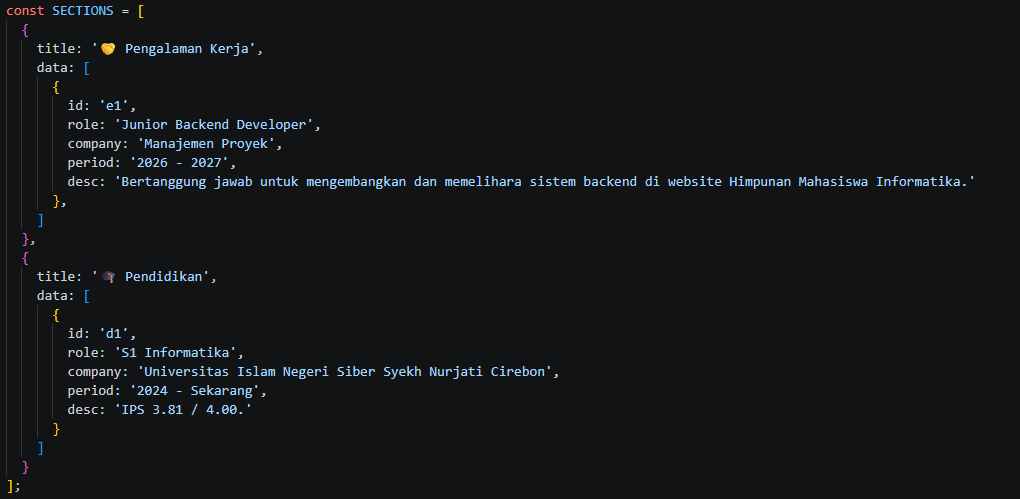
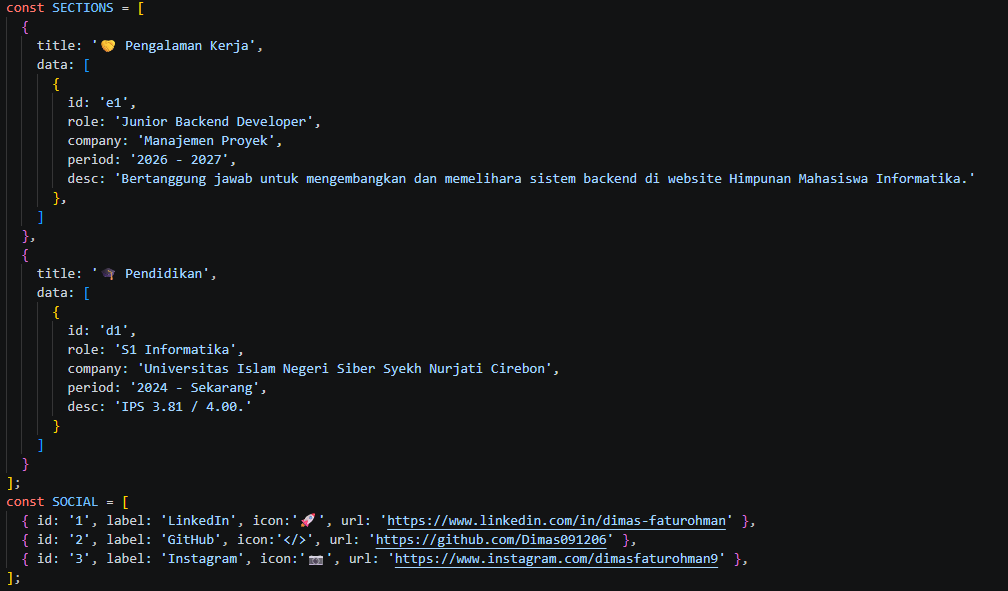
selesai ni

diff --git a/pemrogramanmobile/pertemuan3/Laporan-Praktikum3.md b/pemrogramanmobile/pertemuan3/Laporan-Praktikum3.md
@@ -13,5 +13,57 @@
     <img src=image-2.png>
 2. 
     <img src=image-3.png>
-3. 
+
+
+### Langkah 3: Subcomponent (Skillcard) ###
+1. 
     <img src=image-4.png>
+2. 
+    <img src=image-5.png>
+
+### Langkah 4: State Management dangan useState (Skillcard) ###
+
+1. 
+    <img src=image-6.png>
+### Langkah 5: SafeAreView, Statusbar & Header ###
+1. 
+    <img src=image-7.png>
+
+### Langkah 6: SScrollview & Profil section ###
+1. 
+    <img src=image-8.png>
+
+### Langkah 7: Flatlist ###
+1. 
+    <img src=image-9.png>
+
+### Langkah 8: SectionList Pengalaman dan pendidikan ###
+1. 
+    <img src=image-10.png>
+
+### Langkah 9: TextInput, Button & activityInfdicator ###
+1. 
+    <img src=image-11.png>
+
+### Langkah 10: TextInput, Button & activityInfdicator ###
+1. 
+    <img src=image-12.png>
+
+### Langkah 11: Styling ###
+1. Palet warna
+    <img src=image-12.png>
+
+2. stysheeet.create
+    <img src=image-13.png>
+    <img src=image-14.png>
+    <img src=image-15.png>
+    <img src=image-16.png>
+    <img src=image-17.png>
+    <img src=image-18.png>
+    <img src=image-19.png>
+    <img src=image-20.png>
+    <img src=image-21.png>
+
+    bukti akhir
+    1. iPhone-14-PRO-localhost-20odq_iyp_wmvt.gif
+    <image src="iPhone-14-PRO-localhost-20odq_iyp_wmvt.gif" autoplay="true" ldioop="true" muted="true" width="40%"></image>
